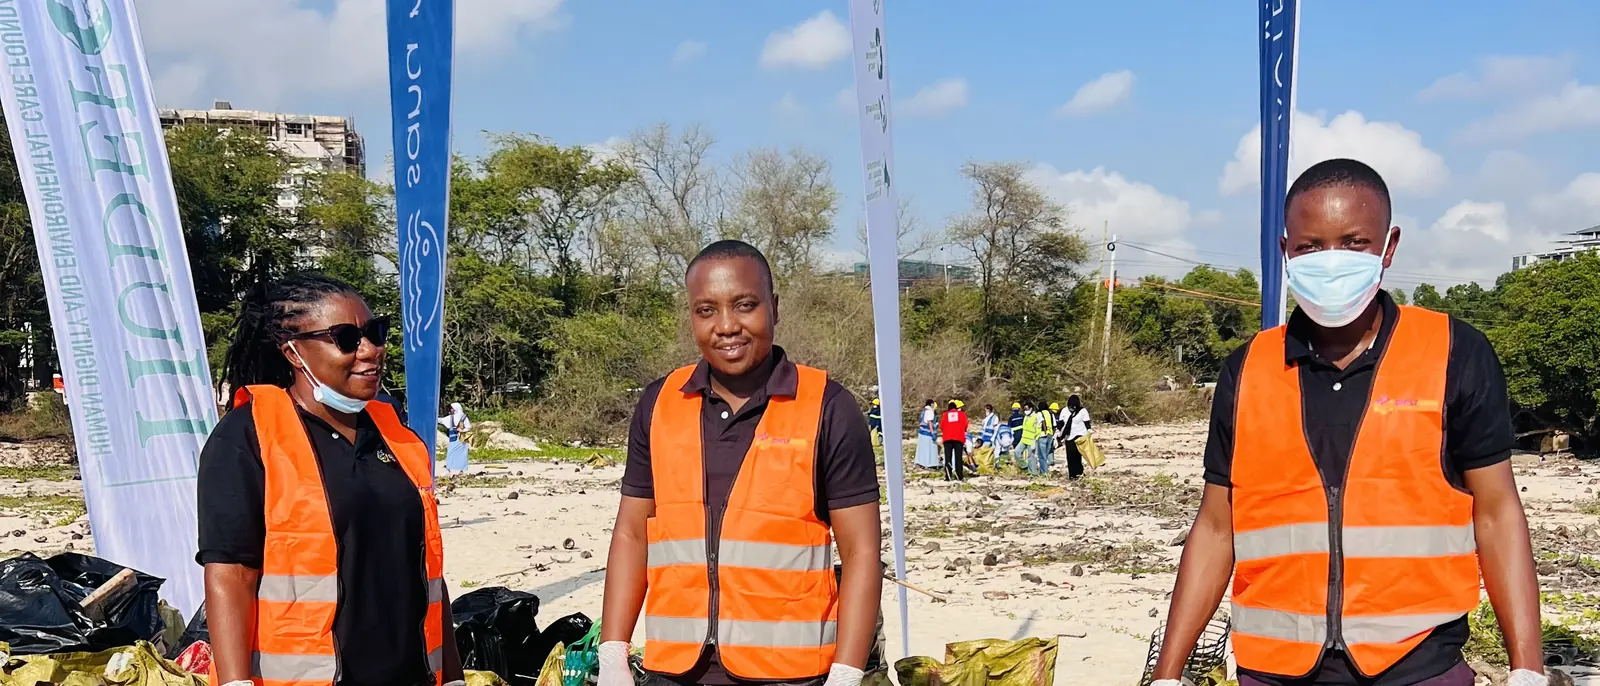
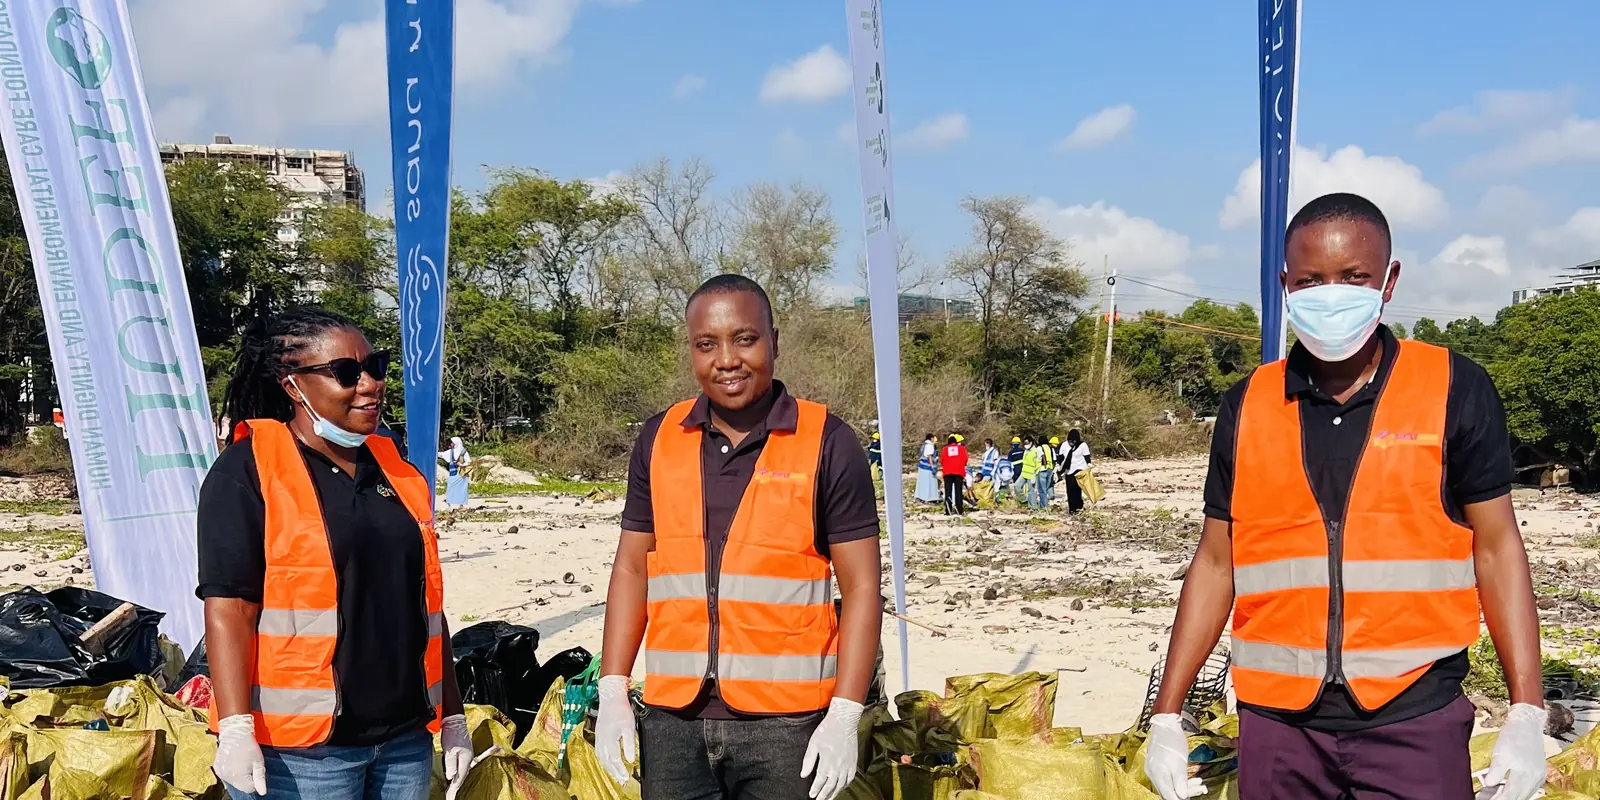
Stop the photographs cutting people in half
Two faults, both visible in the screenshot the client sent back.

The hero and the band photo were cropped to 16:7 and 21:9 from source images
that are portrait — 3024x4032. Those ratios keep roughly a third of the frame
height, so the people were sliced off at the waist with their heads against
the top edge. Both are now cut at 3:2 and 2:1 with the frame placed so heads
have air above them and bodies are whole, and both carry an object-position
above centre so the browser's own cropping for a wide box cannot take the
faces off either.

The green panel in the band section rode so far up the photograph that it
covered the faces that were left. It overlaps by 170px now instead of 268,
over a taller photo, which leaves 350px of picture showing on a desktop and
210 on a phone: all three people clearly visible above it. The panel still
overlaps enough to read as one composition.

Separately, the "who we are" section was broken: its heading, paragraphs and
button were laid out side by side in narrow columns with the button stretched
down the full height. A rule meant to keep cards the same height inside a
grid — `.grid > [data-reveal] { display: flex }` — was matching the reveal
wrappers around two-column text blocks as well. It is now scoped to a class
put only on the wrappers that actually contain a card.

Verified at 1440, 1280, 1024, 768, 430, 390 and 360px: nothing clipped by the
header, nothing hidden behind the cards, no sideways scroll, the band photo
[…]

diff --git a/backend/static/css/site.css b/backend/static/css/site.css
@@ -319,7 +319,13 @@ img { max-width: 100%; height: auto; display: block; }
 
 .hero { position: relative; background: var(--green-deep); overflow: hidden; }
 .hero__media { position: relative; height: clamp(580px, 72vh, 740px); }
-.hero__media > img { width: 100%; height: 100%; object-fit: cover; animation: zoomSlow 1.6s var(--ease) both; }
+.hero__media > img {
+  width: 100%; height: 100%; object-fit: cover;
+  /* Above centre: the people stand in the upper half, so cropping for a wide
+     box must not take their heads off. */
+  object-position: center 34%;
+  animation: zoomSlow 1.6s var(--ease) both;
+}
 .hero__overlay {
   position: absolute; inset: 0; display: flex; align-items: center;
   /* Clear of the sticky header above and of the cards that ride up over the
@@ -402,11 +408,13 @@ img { max-width: 100%; height: auto; display: block; }
 /* --- Photo band + green panel ------------------------------------------ */
 
 .band { position: relative; }
-.band__photo { height: 440px; overflow: hidden; }
-.band__photo img { width: 100%; height: 100%; object-fit: cover; }
+.band__photo { height: 520px; overflow: hidden; }
+.band__photo img { width: 100%; height: 100%; object-fit: cover; object-position: center 45%; }
 .band__panel {
   background: linear-gradient(140deg, #6e9129, var(--green-ink));
-  color: #fff; margin-top: -270px; position: relative;
+  color: #fff; /* The panel used to ride so far up the photograph that it cut the
+     faces in half. It overlaps enough to tie the two together and no more. */
+  margin-top: -170px; position: relative;
   padding: 48px 40px; border-radius: var(--r); box-shadow: var(--sh-3);
 }
 .band__panel h3 { color: #fff; }
@@ -416,8 +424,8 @@ img { max-width: 100%; height: auto; display: block; }
 .band__col:hover svg { transform: translateY(-5px) scale(1.1); }
 
 @media (max-width: 900px) {
-  .band__photo { height: 260px; }
-  .band__panel { margin-top: -130px; padding: 32px 24px; }
+  .band__photo { height: 300px; }
+  .band__panel { margin-top: -90px; padding: 32px 24px; }
 }
 
 /* --- Cards ------------------------------------------------------------- */
@@ -598,7 +606,9 @@ a.card:hover .card__body h3 { color: var(--green-ink); }
 .stats .l { font-size: .88rem; color: var(--muted); margin-top: 9px; }
 @media (max-width: 900px) { .stats { grid-template-columns: repeat(2, 1fr); } }
 
-/* Reveal wrappers must not break the equal-height card grids they sit in. */
-[data-reveal] > .card { height: 100%; }
-.grid > [data-reveal] { display: flex; }
-.grid > [data-reveal] > .card { flex: 1; }
+/* A reveal wrapper around a card must not break the equal-height grid it
+   sits in. Scoped to a class, not to every [data-reveal] inside a .grid —
+   that caught the two-column text sections as well and laid their headings,
+   paragraphs and button out in a row. */
+.r-cell { display: flex; }
+.r-cell > .card { flex: 1; height: 100%; }

diff --git a/backend/templates/pages/home.html b/backend/templates/pages/home.html
@@ -9,7 +9,7 @@
 {# ---------------------------------------------------------------- hero #}
 <section class="hero">
   <div class="hero__media">
-    <img src="{% static 'img/hero.webp' %}" width="1920" height="840" fetchpriority="high"
+    <img src="{% static 'img/hero.webp' %}" width="1700" height="1133" fetchpriority="high"
          alt="Simply Green Organization staff standing with sacks of waste collected at a coastal clean-up in Dar es Salaam">
     <div class="hero__overlay">
       <div class="wrap">
@@ -110,7 +110,7 @@
 {% if values %}
 <section class="band">
   <div class="band__photo">
-    <img src="{% static 'img/band.webp' %}" width="1800" height="771" loading="lazy"
+    <img src="{% static 'img/band.webp' %}" width="1600" height="800" loading="lazy"
          alt="Community clean-up in progress on the Dar es Salaam coast">
   </div>
   <div class="wrap">
@@ -141,7 +141,7 @@
       <a class="btn btn--blue btn--sm" href="{% url 'site:programmes' %}">All programmes</a>
     </div>
     <div class="grid grid-3" style="align-items:stretch">
-      {% for p in programmes %}<div data-reveal style="--d:{{ forloop.counter0 }}20ms">{% include "partials/programme_card.html" with programme=p %}</div>{% endfor %}
+      {% for p in programmes %}<div class="r-cell" data-reveal style="--d:{{ forloop.counter0 }}20ms">{% include "partials/programme_card.html" with programme=p %}</div>{% endfor %}
     </div>
   </div>
 </section>
@@ -188,7 +188,7 @@
       <a class="btn btn--blue btn--sm" href="{% url 'site:news' %}">All news</a>
     </div>
     <div class="grid grid-3">
-      {% for post in posts %}<div data-reveal style="--d:{{ forloop.counter0 }}20ms">{% include "partials/post_card.html" %}</div>{% endfor %}
+      {% for post in posts %}<div class="r-cell" data-reveal style="--d:{{ forloop.counter0 }}20ms">{% include "partials/post_card.html" %}</div>{% endfor %}
     </div>
   </div>
 </section>
